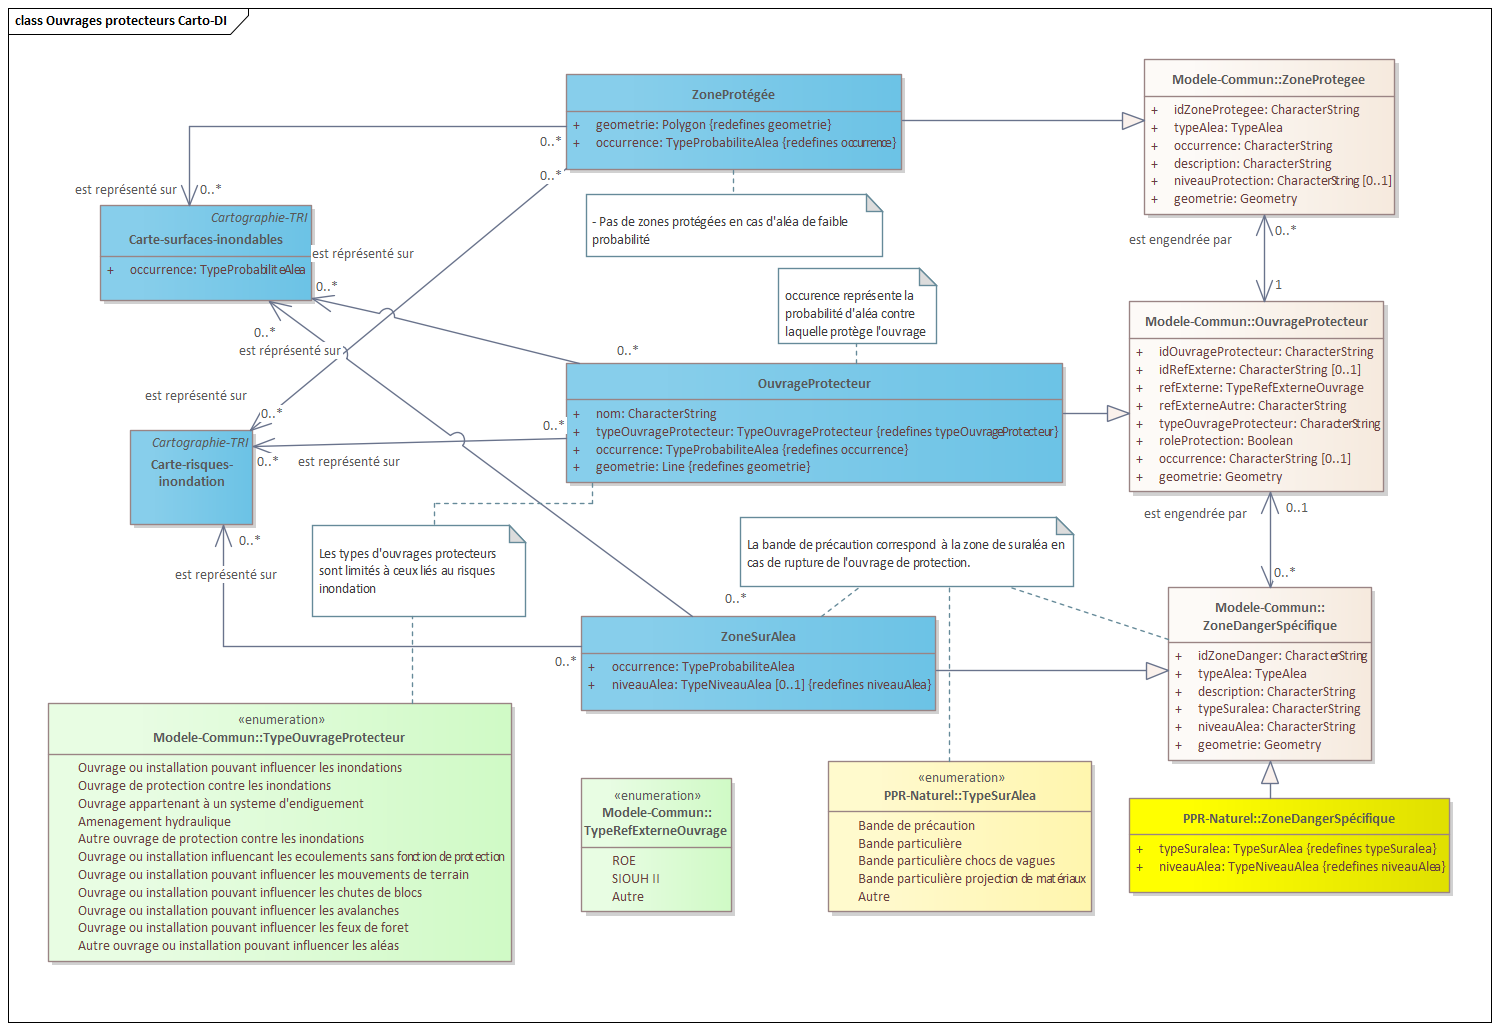
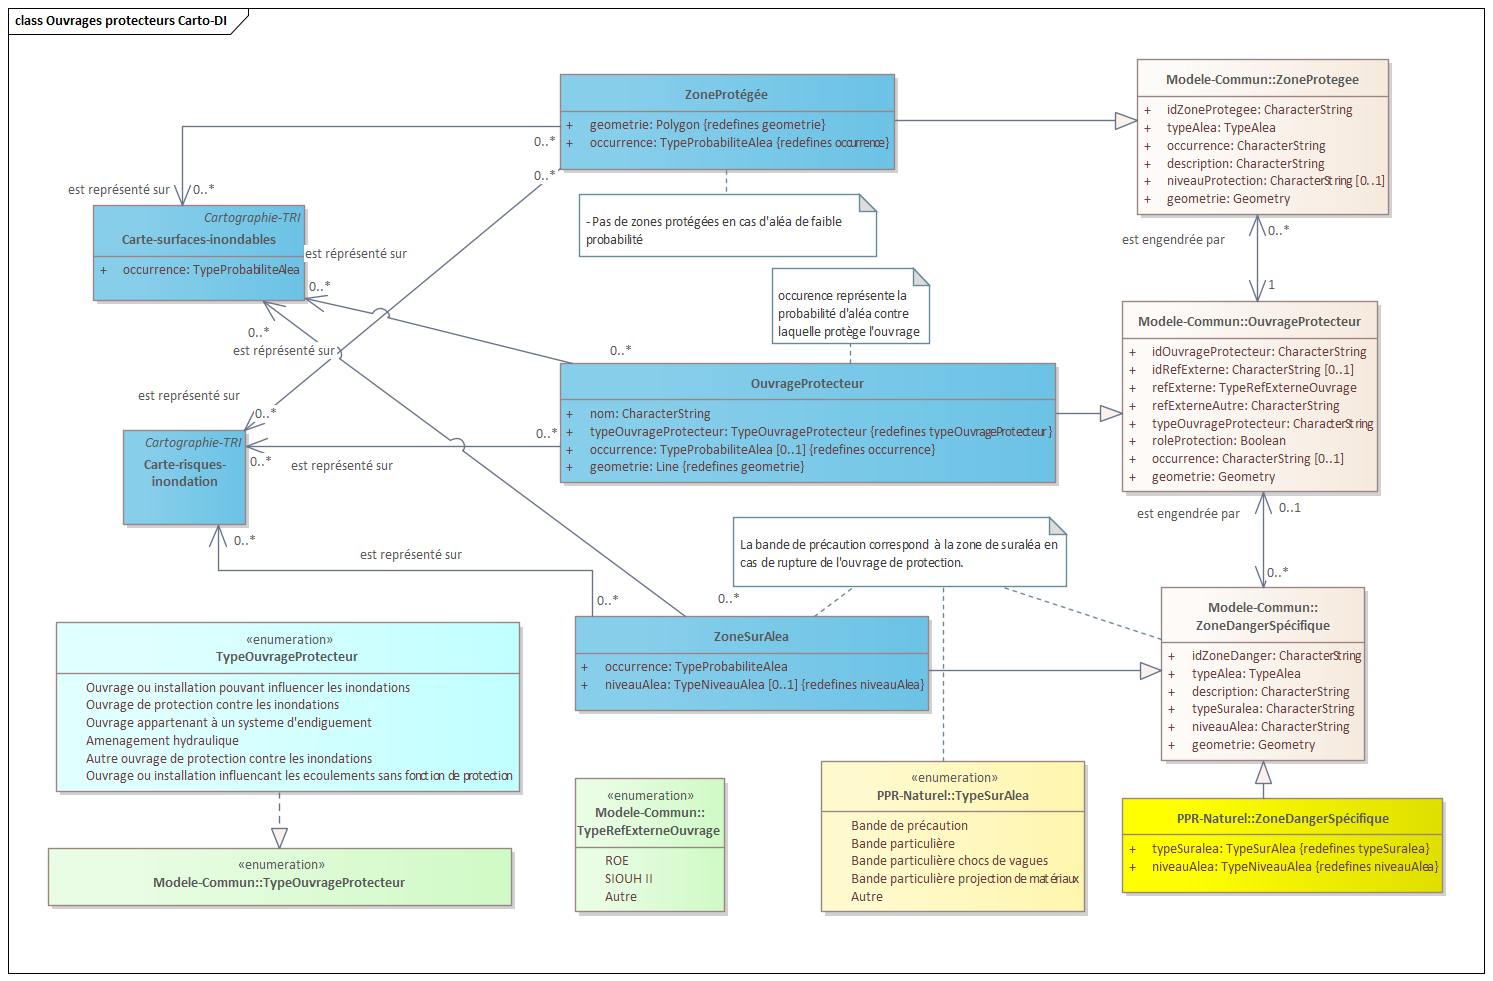
Catalogue uvrage protecteur

diff --git a/standard/Document.md b/standard/Document.md
@@ -507,6 +507,8 @@ Les autres attributs sont ceux de la classe [Cartographie TRI](#attributs-de-la-
 | `est représenté sur` | Relation sémantique permettant de rattacher une zone iso classe vitesse à la carte des surfaces inondables où elle peut être représentée | [Zone iso classe vitesse](#zone-iso-classe-vitesse)(0..*) | [Carte des surfaces inondables](#carte-des-surfaces-inondables)(0..*) |
 | `est représenté sur` | Relation sémantique permettant de rattacher un point remarquable cote vistesse débit à la carte des surfaces inondables où il peut être représentée | [Point remarquable cote vitesse débit](#point-remarquable-cote-vitesse-débit)(0..*) | [Carte des surfaces inondables](#carte-des-surfaces-inondables)(0..*) |
 | `est représenté sur` | Relation sémantique permettant de rattacher une zone iso classe débit à la carte des surfaces inondables où elle peut être représentée | [Zone iso classe débit](#zone-iso-classe-débit)(0..*) | [Carte des surfaces inondables](#carte-des-surfaces-inondables)(0..*) |
+| `est représenté sur` | Relation sémantique permettant de rattacher un ouvrage protecteur à la carte de surfaces inondables où il peut être représenté | [Ouvrage protecteur](#ouvrage-protecteur)(1..*) | [Carte des surfaces inondables](#carte-des-surfaces-inondables)(0..*) |
+
 
 Cf. aussi [associations de la classe Cartographie TRI](#associations-de-la-classe-cartographie-tri)
 
@@ -529,6 +531,7 @@ Cf. attributs de la classe [Cartographie TRI](#attributs-de-la-classe-cartograph
 | Nom de l'association| Définition | Classe de départ (occurrence) | Classe d'arrivée (occurrence) |
 | - | - | - | - |
 | `est représenté sur` | Relation sémantique permettant de rattacher une surface inondable à la carte de risques inondation où elle doit être représentée. | [Surface inondable](#surface-inondable)(1..*) | [Carte de risques inondation](#carte-de-risques-inondation)(0..*) |
+| `est représenté sur` | Relation sémantique permettant de rattacher un ouvrage protecteur à la carte de risques inondation où il peut être représenté | [Ouvrage protecteur](#ouvrage-protecteur)(1..*) | [Carte de risques inondation](#carte-de-risques-inondation)(0..*) |
 
 Cf. aussi [associations de la classe Cartographie TRI](#associations-de-la-classe-cartographie-tri)
 
@@ -721,6 +724,38 @@ Cf. [associations de la classe surface inondable](#associations-de-la-classe-sur
 
 ### Ouvrage protecteur
 
+| | |
+| - | - |
+| **Classe d'objet** | **`Ouvrage protecteur`** |
+| **Définition** | Cette classe spécialise la classe d'objets "Ouvrage protecteur" définie dans la modèle commun dans le cadre des cartographies de la directive inondation. Elle permet de décrire les ouvrages ayant une influence vis à vis de l'aléa inondation avec une fonction ou non de protection. La plupart de ces ouvrages sont définis et référencés dans des référentiels externes tels que le Référentiel des Obstacles à l'Ecoulement (ROE) ou le Système d’Information des Ouvrages Hydrauliques (SIOUH). Les objets de cette classe permettent d'y faire référence en en reprenant la géométrie, le nommant et en indiquant la fonction et le niveau de protection. |
+| **Modélisation géométrique** | |
+| **Primitive graphique** | Line |
+
+#### Attributs de la classe Ouvrage protecteur
+
+| Attribut | Définition | Occurrences | Type | Contraintes | Exemples |
+| - | - | - | - | - | - |
+| **`identifiant`** | Identifiant de l'ouvrage protecteur au sein du jeu de données. Cf. [Règles de codification des identifiants](#règles-de-codification-des-identifiants). | 1 | `identifiant` | Clé primaire | `OUV_0001` |
+| `idRefExterne` | Identifiant de l'objet dans le référentiel externe d'où il est extrait | 0..1 | CharacterString | Le formalisme de l'identifiant est déterminé par les spécifications du référentiel externe. |  |
+| `refExterne` | Référentiel externe d'où est extrait l'objet. | 1..1 | [TypeRefExterneOuvrage](#typerefexterneouvrage) | Saisie obligatoire. Valeurs à prendre parmi celles de l'énumération [TypeRefExterneOuvrage](#typerefexterneouvrage) | `SIOUH II` |
+| `refExterneAutre` | Nom du référentiel externe s'il ne fait pas partie de ceux prévus dans l'énumération [TypeRefExterneOuvrage](#typerefexterneouvrage) | 0..1 | CharacterString | Saisie libre. Obligatoire si la valeur de `refExterne` vaut `Autre` | `BD Topo` |
+| `nom` | Nom de l'ouvrage protecteur | 1..1 | `CharacterString` | Saisie libre (si possible en fonction du nom de l'objet dans le référentiel d'où il est extrait) | `Barage de Serre-Ponçon` |
+| `typeOuvrageProtecteur` | Caractérisation de l"ouvrage selon sa fonction. | 1..1 | [TypeOuvrageProtecteur](#typeouvrageprotecteur) | Saisie Obligatoire. Valeurs à prendre parmi celles de l'énumération [TypeOuvrageProtecteur](#typeouvrageprotecteur) | `Aménagement hydraulique` |
+| `roleProtection` | Indique si l'ouvrage a un rôle de protection (c'est à dire s'il a été conçu et est entretenu) pour un évènement dont l'occurrence est précisée par le champ "occurrence". | 0..1 |`booléen` | `false` si l'ouvrage n'est pas conçu et entretenu pour jouer ce rôle de protection (par exemple parce que l'ouvrage peut protéger contre l'aléa dans certaines conditions, mais n'est pas conçu et entretenu pour cela). `true` si l'ouvrage ou l'installation est conçu et entretenu pour se protéger d'un évènement plus important ou égal à la probabilité de survenue de l'aléa dont l'occurrence est alors précisée par le champ "occurrence". | `true` |
+| `occurrence` | Probabilité d'aléa contre laquelle protège l'ouvrage. | 0..1 | [TypeProbabiliteAlea](#typeprobabilitealea) | Saisie facultative. Valeurs à prendre parmi les valeurs de [TypeProbabiliteAlea](#typeprobabilitealea). | `Aléa de forte probabilité` |
+
+#### Associations de la classe Ouvrage protecteur
+
+| Nom de l'association| Définition | Classe de départ (occurrence) | Classe d'arrivée (occurrence) |
+| - | - | - | - |
+| `engendre` | Relation sémantique permettant de rattacher une zone protégée à un ouvrage protecteur | [Zone protégée](#zone-protégée)(0..*) | [Ouvrage protecteur](#ouvrage-protecteur)(1) |
+| `engendre` | Relation sémantique permettant de rattacher une zone de sur-aléa à un ouvrage protecteur qui la génère | [Zone de sur-aléa](#zone-de-sur-aléa)(0..*) | [Ouvrage protecteur](#ouvrage-protecteur)(0..1) |
+
+
+Cf. aussi [associations de la classe Carte des surfaces inondables](#associations-de-la-classe-carte-des-surfaces-inondables) et [associations de la classe Carte de risques inondation](#associations-de-la-classe-carte-de-risques-inondation).
+
+
+
 ### Zone protégée
 
 ### Zone de sur-aléa
@@ -773,9 +808,9 @@ Le tableau suivant liste les valeurs possibles permettant de caractériser les d
 | Libellé | Code GASPAR |
 | - | - |
 | Risque naturel ; Inondation ; Par une crue à débordement lent de cours d'eau | 112 |
-| *Risque naturel ; Inondation ; Par une crue torrentielle ou à montée rapide de cours d'eau ?* | *113* |
+| Risque naturel ; Inondation ; Par une crue torrentielle ou à montée rapide de cours d'eau | 113 |
 | Risque naturel ; Inondation ; Par ruissellement et coulée de boue | 114 |
-| *Risque naturel ; Inondation ; Par lave torrentielle (torrent et talweg) ?* | *115* |
+| Risque naturel ; Inondation ; Par lave torrentielle (torrent et talweg) | 115 |
 | Risque naturel ; Inondation ; Par remontées de nappes naturelles | 116 |
 | Risque naturel ; Inondation ; Par submersion marine | 117 |
 
@@ -888,7 +923,7 @@ Les composantes géométriques des données des cartographies de la Directive In
 
 #### Référentiels de numérisation
 
-Les cartographies de la Directive Inpndation sont généralement élaborés à partir des référentiels de données suivants :
+Les cartographies de la Directive Inondation sont généralement élaborés à partir des référentiels de données suivants :
 
 * SCAN 25, carte IGN au 1 :25 000
 * BD Ortho IGN